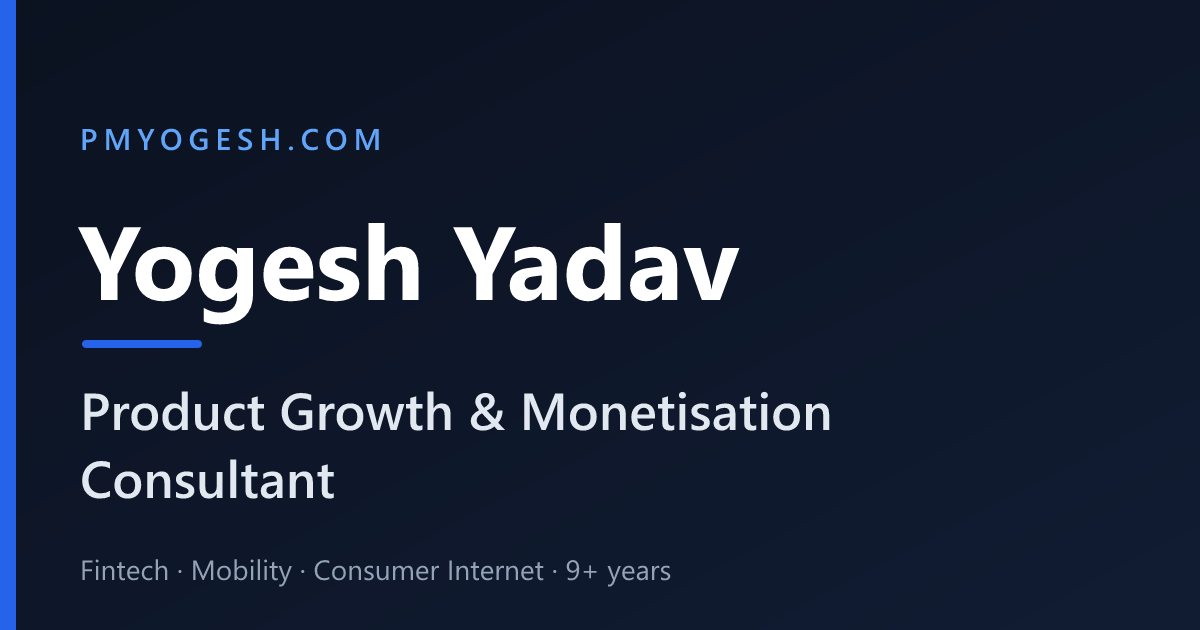
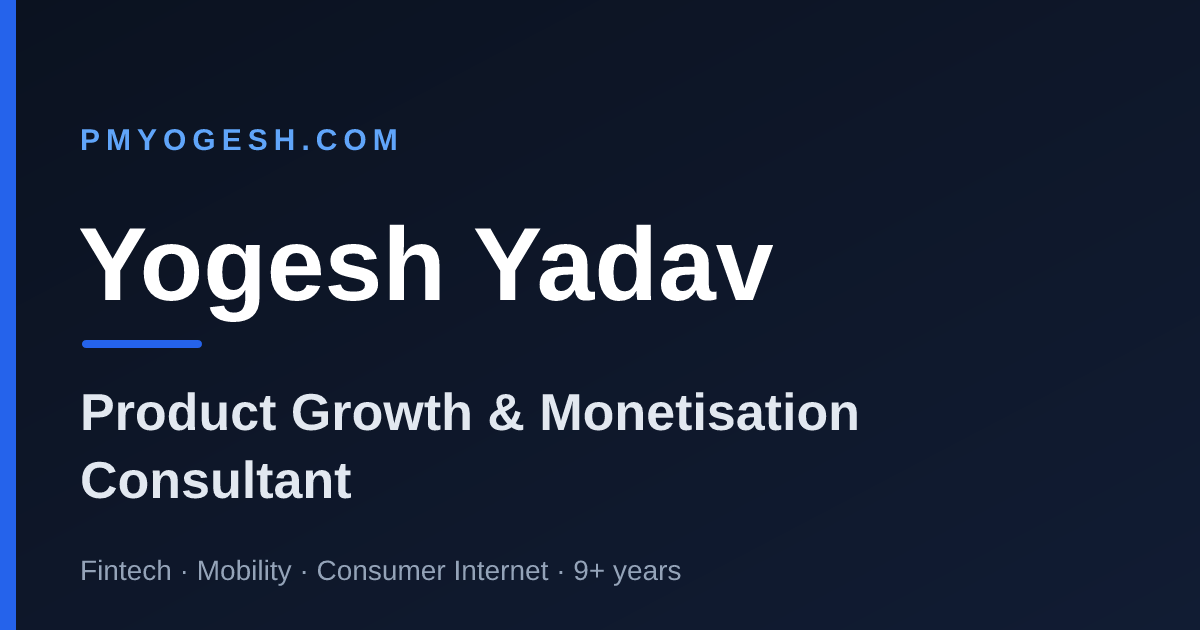
Generate a distinct Open Graph card for every page
All 100 pages shared one og-image.png, so every case study and blog post
rendered an identical card on LinkedIn and X — the same generic image
whether the link was a 1200% revenue case study or a post about roadmaps.

script/gen-og-images.ts renders one 1200x630 card per route carrying that
page's section, its own title, and — for case studies — the top metric taken
verbatim from CASE_STUDY_METRICS. Cards are committed under client/public/og/
rather than generated during the Vercel build: resvg renders text with system
fonts, and a build image without them would silently emit 100 blank cards.
The generator also fails loudly if rendered output is suspiciously small,
for the same reason.

Titles are wrapped and size-fitted (SVG has no text wrapping); verified that
no title truncates at any route. Cards with a metric are top-anchored and
start at a smaller size so the title cannot collide with the metric block.

seo.tsx now resolves each page's card by route, with an explicit image still
winning and DEFAULT_OG_IMAGE as the fallback. og:image:alt and
twitter:image:alt now name the page rather than repeating the site tagline.

Verified: 100/100 unique og:image values, 100 cards shipped, every
referenced card present in the build output.

Claude-Session: https://claude.ai/code/session_01Gf12kw7cQ7TSrnw2B1Fh1U

diff --git a/script/gen-og-images.ts b/script/gen-og-images.ts
@@ -1,0 +1,232 @@
+/**
+ * Generates one 1200x630 Open Graph card per route into client/public/og/.
+ *
+ * Every page previously shared the same og-image.png, so every case study and
+ * blog post rendered an identical card on LinkedIn and X. These cards carry the
+ * page's own title, its section, and — for case studies — a real metric taken
+ * verbatim from the page.
+ *
+ * The PNGs are committed rather than generated during the Vercel build, because
+ * resvg renders text with system fonts: a build image without them would emit
+ * 100 silently blank cards. Generating here and committing keeps the deploy
+ * font-independent.
+ *
+ * Run after changing any page title:  tsx script/gen-og-images.ts
+ */
+import { Resvg } from "@resvg/resvg-js";
+import { readFileSync, writeFileSync, mkdirSync } from "fs";
+import path from "path";
+import { pathToFileURL } from "url";
+import {
+  getAllRoutePaths,
+  STATIC_ROUTES,
+  WORK_STORY_SLUGS,
+  CASE_STUDY_TOPICS,
+  ogImagePath,
+} from "../shared/seo-data";
+import { PAGE_SEO } from "../shared/seo-meta";
+import { caseStudies } from "../client/src/data/caseStudies";
+import { CASE_STUDY_METRICS } from "../client/src/data/case-study-metrics";
+
+const W = 1200;
+const H = 630;
+const LEFT = 82;
+const RIGHT_EDGE = 1120;
+const FONTS = "Liberation Sans, DejaVu Sans, Arial, Helvetica, sans-serif";
+
+function esc(s: string): string {
+  return s
+    .replace(/&/g, "&amp;")
+    .replace(/</g, "&lt;")
+    .replace(/>/g, "&gt;")
+    .replace(/"/g, "&quot;")
+    .replace(/[‘’]/g, "'")
+    .replace(/[“”]/g, '"')
+    .replace(/—/g, "&#8212;")
+    .replace(/·/g, "&#183;");
+}
+
+/**
+ * SVG has no text wrapping, so lines are broken here. Width is estimated from
+ * an average glyph width for bold sans — good enough to keep lines inside the
+ * card, which is all that matters at this size.
+ */
+function wrapLines(text: string, fontSize: number, maxWidth: number): string[] {
+  const perChar = fontSize * 0.545;
+  const maxChars = Math.max(8, Math.floor(maxWidth / perChar));
+  const words = text.split(/\s+/);
+  const lines: string[] = [];
+  let line = "";
+  for (const word of words) {
+    const candidate = line ? `${line} ${word}` : word;
+    if (candidate.length <= maxChars) {
+      line = candidate;
+    } else {
+      if (line) lines.push(line);
+      line = word;
+    }
+  }
+  if (line) lines.push(line);
+  return lines;
+}
+
+/** Largest size at which the title fits the available lines. Cards carrying a
+ *  metric start smaller, so the title cannot run into the metric block. */
+function fitTitle(title: string, maxLines: number, sizes: number[]) {
+  for (const size of sizes) {
+    const lines = wrapLines(title, size, RIGHT_EDGE - LEFT);
+    if (lines.length <= maxLines) return { size, lines };
+  }
+  const size = sizes[sizes.length - 1];
+  return { size, lines: wrapLines(title, size, RIGHT_EDGE - LEFT).slice(0, maxLines) };
+}
+
+interface Card {
+  eyebrow: string;
+  title: string;
+  metric?: { value: string; label: string };
+}
+
+function buildSvg(card: Card): string {
+  const hasMetric = Boolean(card.metric);
+  const maxLines = 3;
+  const { size, lines } = fitTitle(
+    card.title,
+    maxLines,
+    hasMetric ? [58, 52, 46, 41, 37] : [70, 62, 56, 50, 45, 40]
+  );
+  const lineHeight = Math.round(size * 1.18);
+
+  // With a metric the title is top-anchored so it can never run into the metric
+  // block below it; without one it is centred in the space above the footer.
+  const blockTop = 200;
+  const blockH = lines.length * lineHeight;
+  let y = hasMetric
+    ? blockTop + size
+    : blockTop + Math.max(0, (500 - blockTop - blockH) / 2) + size;
+
+  const titleTspans = lines
+    .map((l) => {
+      const t = `<text x="${LEFT}" y="${Math.round(y)}" font-family="${FONTS}" font-size="${size}" font-weight="700" fill="#FFFFFF">${esc(l)}</text>`;
+      y += lineHeight;
+      return t;
+    })
+    .join("\n  ");
+
+  let metricBlock = "";
+  if (card.metric) {
+    const value = esc(card.metric.value);
+    const label = esc(card.metric.label);
+    // Bold digits and '%' run wider than the 0.545 average used for wrapping.
+    const valueWidth = Math.round(value.length * 46 * 0.6);
+    metricBlock = `
+  <rect x="${LEFT}" y="452" width="8" height="58" rx="4" fill="#2563EB"/>
+  <text x="${LEFT + 26}" y="496" font-family="${FONTS}" font-size="46" font-weight="700" fill="#60A5FA">${value}</text>
+  <text x="${LEFT + 26 + valueWidth + 20}" y="496" font-family="${FONTS}" font-size="27" font-weight="500" fill="#94A3B8">${label}</text>`;
+  }
+
+  return `<svg xmlns="http://www.w3.org/2000/svg" width="${W}" height="${H}" viewBox="0 0 ${W} ${H}">
+  <defs>
+    <linearGradient id="bg" x1="0" y1="0" x2="1" y2="1">
+      <stop offset="0%" stop-color="#0B1220"/>
+      <stop offset="100%" stop-color="#111C33"/>
+    </linearGradient>
+  </defs>
+  <rect width="${W}" height="${H}" fill="url(#bg)"/>
+  <rect x="0" y="0" width="16" height="${H}" fill="#2563EB"/>
+  <text x="${LEFT}" y="118" font-family="${FONTS}" font-size="26" font-weight="600" letter-spacing="5" fill="#60A5FA">${esc(card.eyebrow.toUpperCase())}</text>
+  ${titleTspans}${metricBlock}
+  <rect x="${LEFT}" y="556" width="${RIGHT_EDGE - LEFT}" height="1" fill="#1E293B"/>
+  <text x="${LEFT}" y="595" font-family="${FONTS}" font-size="25" font-weight="500" fill="#94A3B8">Yogesh Yadav &#183; Product Growth &amp; Monetisation Consultant</text>
+</svg>`;
+}
+
+/** Blog titles live in blog-data.ts, which imports image assets and so cannot
+ *  be imported from a plain script. The entries are flat, so parse them. */
+function blogCards(): Map<string, Card> {
+  const src = readFileSync("client/src/lib/blog-data.ts", "utf8");
+  const map = new Map<string, Card>();
+  const re = /slug:\s*"([a-z0-9-]+)",\s*title:\s*"((?:[^"\\]|\\.)*)"[\s\S]*?category:\s*"([^"]+)"/g;
+  for (const m of src.matchAll(re)) {
+    const [, slug, title, category] = m;
+    map.set(`/blog/${slug}`, {
+      eyebrow: `Article · ${category}`,
+      title: title.replace(/\\"/g, '"'),
+    });
+  }
+  return map;
+}
+
+function cardFor(routePath: string, blog: Map<string, Card>): Card {
+  if (routePath === "/") {
+    return { eyebrow: "pmyogesh.com", title: "Product Growth & Monetisation Consultant" };
+  }
+  if (blog.has(routePath)) return blog.get(routePath)!;
+
+  if (routePath.startsWith("/case-study/")) {
+    const slug = routePath.replace("/case-study/", "");
+    const study = caseStudies.find((c) => c.slug === slug);
+    const metric = (CASE_STUDY_METRICS[slug] ?? [])[0];
+    return {
+      eyebrow: `Case Study · ${study?.category ?? "Product"}`,
+      title: study?.title ?? PAGE_SEO[routePath]?.title ?? slug,
+      metric,
+    };
+  }
+  if (routePath.startsWith("/case-studies/")) {
+    const topic = CASE_STUDY_TOPICS.find((t) => `/case-studies/${t.slug}` === routePath);
+    const count = caseStudies.filter((c) => c.category === topic?.category).length;
+    return {
+      eyebrow: "Case Studies",
+      title: `${topic?.category} case studies`,
+      metric: { value: String(count), label: "studies with real numbers" },
+    };
+  }
+  if (routePath.startsWith("/work/")) {
+    const slug = routePath.replace("/work/", "");
+    const title = (PAGE_SEO[routePath]?.title ?? slug).replace(/\s*\|\s*Yogesh Yadav\s*$/, "");
+    return { eyebrow: "Company Story", title };
+  }
+
+  const isStatic = STATIC_ROUTES.some((r) => r.path === routePath);
+  const title = (PAGE_SEO[routePath]?.title ?? routePath).replace(/\s*\|\s*Yogesh Yadav\s*$/, "");
+  return { eyebrow: isStatic ? "pmyogesh.com" : "pmyogesh.com", title };
+}
+
+export function genOgImages() {
+  const blog = blogCards();
+  const routes = getAllRoutePaths();
+  let written = 0;
+  let blank = 0;
+
+  for (const route of routes) {
+    const card = cardFor(route, blog);
+    const svg = buildSvg(card);
+    const png = new Resvg(svg, {
+      fitTo: { mode: "width", value: W },
+      font: { loadSystemFonts: true, defaultFontFamily: "Liberation Sans" },
+    })
+      .render()
+      .asPng();
+
+    // A card with no glyphs compresses to almost nothing — catch a fontless
+    // environment loudly instead of shipping 100 blank images.
+    if (png.length < 12000) blank++;
+
+    const out = path.resolve("client/public" + ogImagePath(route));
+    mkdirSync(path.dirname(out), { recursive: true });
+    writeFileSync(out, png);
+    written++;
+  }
+
+  if (blank > 0) {
+    throw new Error(
+      `[og-images] ${blank}/${written} cards rendered suspiciously small — fonts are probably missing. Refusing to ship blank cards.`
+    );
+  }
+  console.log(`[og-images] wrote ${written} cards to client/public/og/`);
+}
+
+if (import.meta.url === pathToFileURL(process.argv[1] ?? "").href) {
+  genOgImages();
+}

diff --git a/client/src/lib/seo.tsx b/client/src/lib/seo.tsx
@@ -1,5 +1,5 @@
 import { Helmet } from "react-helmet-async";
-import { SITE_URL, DEFAULT_OG_IMAGE, OG_IMAGE_ALT } from "@shared/seo-data";
+import { SITE_URL, DEFAULT_OG_IMAGE, OG_IMAGE_ALT, ogImageUrl } from "@shared/seo-data";
 import gitDates from "@shared/git-dates.json";
 
 /** Stable @id for the single Person node, referenced as author across the site. */
@@ -62,9 +62,14 @@ export function Seo({
   noindex = false,
   schema,
 }: SeoProps) {
-  const url = `${SITE_URL}${normalizeCanonicalPath(path)}`;
+  const canonicalPath = normalizeCanonicalPath(path);
+  const url = `${SITE_URL}${canonicalPath}`;
+  // Each route has its own generated card; an explicit image still wins, and
+  // DEFAULT_OG_IMAGE remains the fallback for any path without one.
   const ogImage =
-    image && image.startsWith("http") ? image : DEFAULT_OG_IMAGE;
+    image && image.startsWith("http")
+      ? image
+      : ogImageUrl(canonicalPath) || DEFAULT_OG_IMAGE;
 
   const schemaArray = schema
     ? Array.isArray(schema)
@@ -96,14 +101,14 @@ export function Seo({
       <meta property="og:image" content={ogImage} />
       <meta property="og:image:width" content="1200" />
       <meta property="og:image:height" content="630" />
-      <meta property="og:image:alt" content={OG_IMAGE_ALT} />
+      <meta property="og:image:alt" content={`${title} — ${OG_IMAGE_ALT}`} />
 
       {/* Twitter */}
       <meta name="twitter:card" content="summary_large_image" />
       <meta name="twitter:title" content={title} />
       <meta name="twitter:description" content={description} />
       <meta name="twitter:image" content={ogImage} />
-      <meta name="twitter:image:alt" content={OG_IMAGE_ALT} />
+      <meta name="twitter:image:alt" content={`${title} — ${OG_IMAGE_ALT}`} />
 
       {publishedAt && (
         <meta property="article:published_time" content={publishedAt} />

diff --git a/shared/seo-data.ts b/shared/seo-data.ts
@@ -128,6 +128,20 @@ export const CASE_STUDY_SLUGS = [
 ];
 
 /**
+ * Per-route Open Graph card, generated by script/gen-og-images.ts and committed
+ * under client/public/og/. Every page used to share one image, so every share
+ * on LinkedIn or X rendered an identical card.
+ */
+export function ogImagePath(routePath: string): string {
+  if (routePath === "/") return "/og/home.png";
+  return `/og${routePath}.png`;
+}
+
+export function ogImageUrl(routePath: string): string {
+  return `${SITE_URL}${ogImagePath(routePath)}`;
+}
+
+/**
  * The complete, de-duplicated list of route paths that should be prerendered
  * and listed in the sitemap. Derived from the slug registries above, so adding
  * a page there automatically flows through to prerendering, the sitemap and
